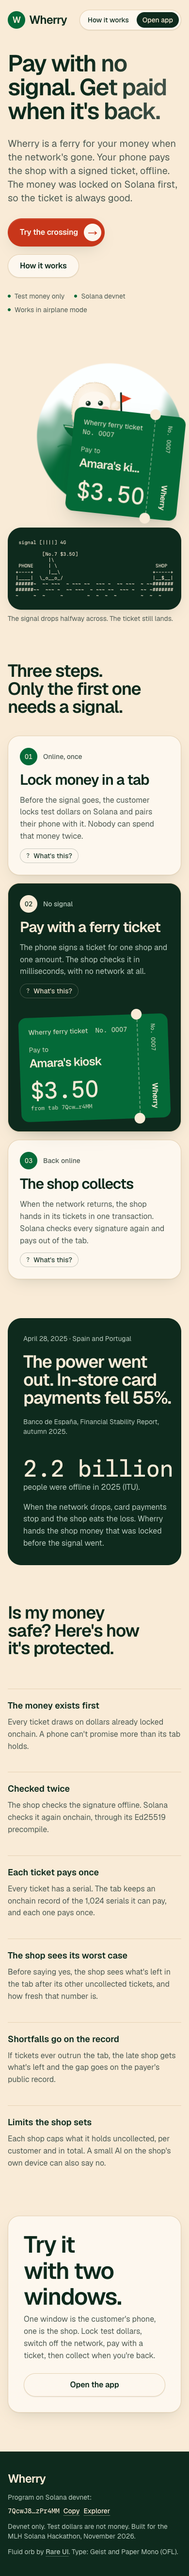
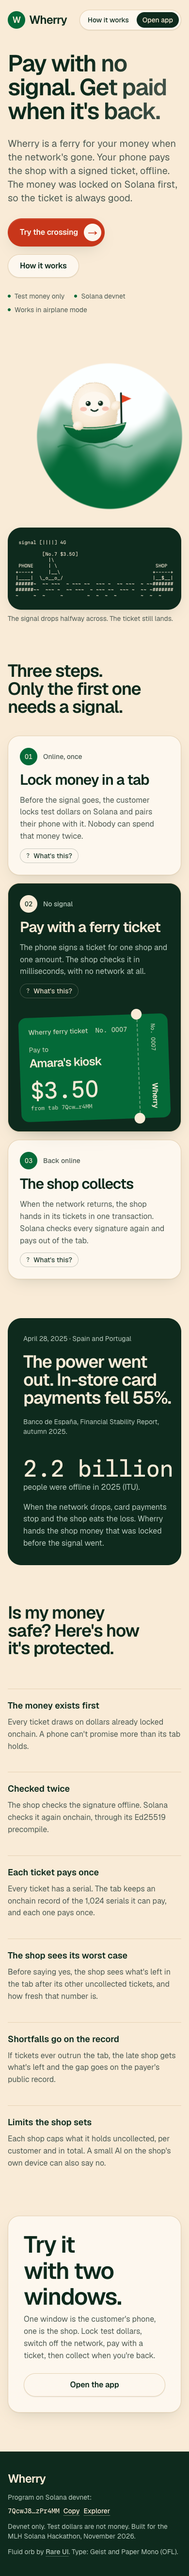
Redesign v2: hide the hero ticket on phones so Doggett stays visible

Changed region(s): [[0.3385, 0.1557, 0.9846, 0.218]]

diff --git a/app/components/hero-stage.tsx b/app/components/hero-stage.tsx
@@ -19,7 +19,7 @@ export function HeroStage() {
           <Doggett pose="welcome" size={230} decorative className="max-sm:h-auto max-sm:w-[170px]" />
         </div>
       </div>
-      <div className="absolute -bottom-4 right-0 z-20 w-[230px] rotate-6 sm:w-[260px]">
+      <div className="absolute -bottom-4 right-0 z-20 hidden w-[260px] rotate-6 sm:block">
         <Ticket serial={7} shopName="Amara's kiosk" amount={3_500_000n} />
       </div>
     </div>
